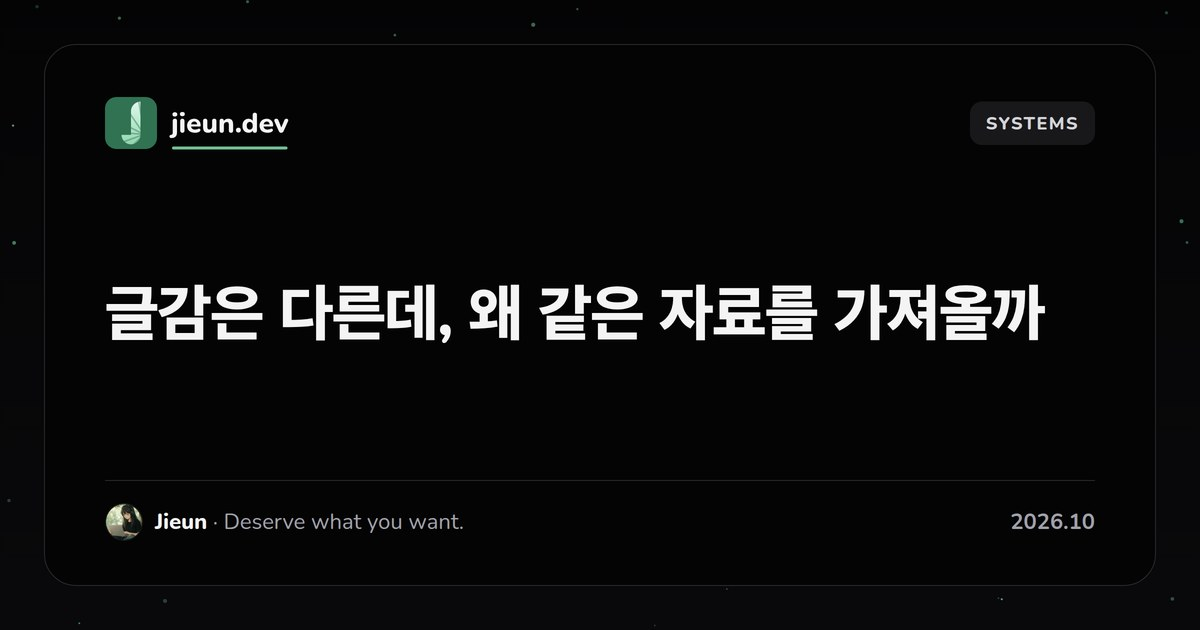
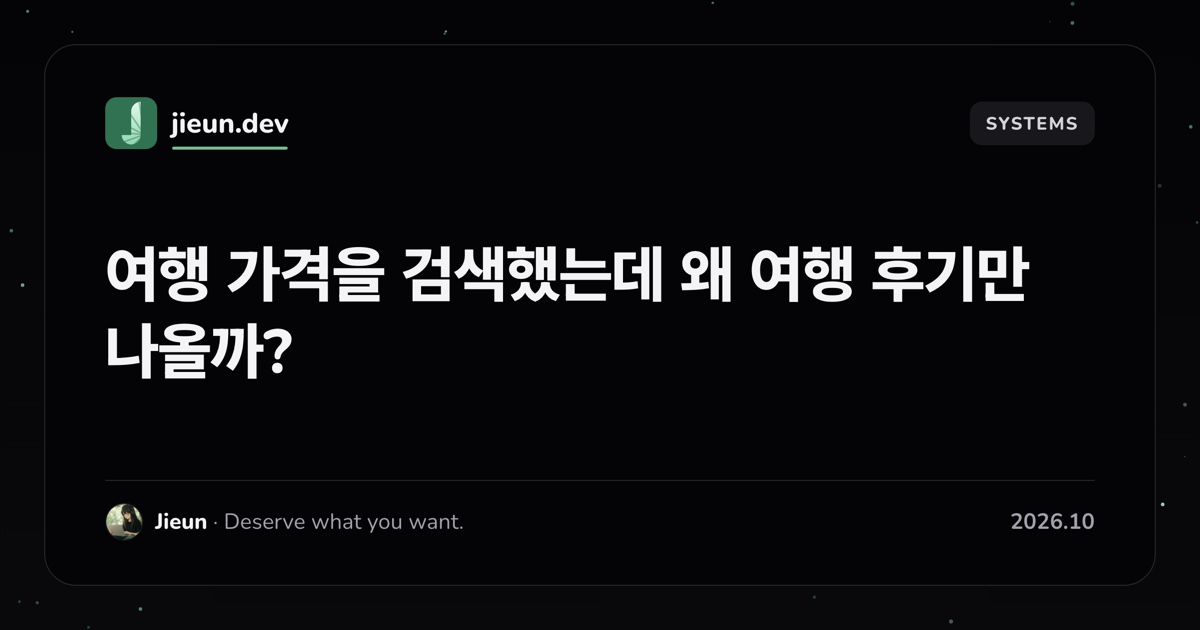
검색 의도 글의 제목·부제목·들어가며·커버를 홋카이도 예시로 바꾼다

diff --git a/src/content/blog/ko/preserving-topic-intent-in-search.md b/src/content/blog/ko/preserving-topic-intent-in-search.md
@@ -1,14 +1,14 @@
 ---
-title: "글감은 다른데, 왜 같은 자료를 가져올까"
+title: "여행 가격을 검색했는데 왜 여행 후기만 나올까?"
 description: "제목 앞에서 추출하던 추가 단어를 핵심 질문에 맞는 검색 구문으로 바꾸고, 플랫폼 문서를 글감별로 중복 없이 배정한 과정을 설명합니다."
-subtitle: "서로 다른 글감이 비슷한 자료를 가져오는 문제를 실제 검색어와 코드에서 확인했습니다. 질문을 표현하는 일은 Grok에, 검색 의도 저장과 플랫폼 출처 배정은 코드에 맡겼습니다."
+subtitle: "AI가 글의 핵심 질문 대신 제목 앞부분의 단어로 자료를 검색하던 문제를 발견했습니다. 검색어 생성과 출처 배정 방식을 개선한 경험을 공유합니다."
 pubDate: 2026-10-18
 tags: ["llm", "prompt-engineering", "content-automation"]
 category: systems
-cover: /covers/wiblog-search-intent-ko-v3.png
+cover: /covers/wiblog-search-intent-ko-v4.png
 coverFit: contain
 coverBackground: dark
-coverAlt: "같은 야외웨딩 제목에서 씨앗키워드에 올을 더하던 기존 검색어와 텐트 비용을 더하는 개선 검색어를 좌우로 비교한 커버"
+coverAlt: "가격·후기·환불 규정을 다루는 세 글이 기존에는 같은 검색어 하나로 모이고, 개선 후에는 각 질문을 반영한 검색어로 나뉘는 모습을 비교한 커버"
 series: wiblog-quality
 seriesOrder: 2
 seriesTitle: "위블로그 제목과 검색 개선기"
@@ -17,15 +17,30 @@ draft: false
 
 ## 들어가며
 
-위블로그는 키워드를 입력하면 글감 후보와 설명·목차·출처를 준비하고, 사용자가 고른 글감으로 본문을 생성하는 서비스입니다. 글의 출발점이 되는 키워드를 ‘씨앗키워드’라고 부르며, 보통 하나의 씨앗에서 세 개의 글감을 제안합니다.
+AI가 블로그 글 세 개를 작성한다고 가정해 보겠습니다.
 
-[지난 글](/ko/blog/making-ai-blog-titles-readable/)에서는 어떤 답을 얻을 글인지 드러나도록 제목 생성을 개선한 과정을 다뤘습니다. 이번에는 그 질문에 답할 자료를 찾는 과정입니다.
+주제는 모두 '홋카이도 온천 여행'이지만, 각 글에서 답해야 할 질문은 다릅니다.
 
-직접 글감을 검수하면서 제목과 실제로 쓰려는 내용이 따로 노는 경향을 발견했습니다. 제목은 구체적인 내용을 약속하는데 목차는 일반적인 설명으로 돌아가거나, 서로 다른 질문을 다루는 글감들이 비슷한 자료를 가져오는 경우가 있었습니다.
+- 온천 여행 패키지의 가격은 얼마일까?
+- 실제 여행객들은 어떤 후기를 남겼을까?
+- 예약을 취소하면 수수료는 얼마나 발생할까?
 
-PoC 엔지니어는 저 혼자였고, 거의 주 단위로 실험한 내용을 운영에 반영했습니다. 다만 무엇을 고쳐야 하는지 파악하는 데는 시간이 많이 걸렸습니다. 제목 생성, 검색어 구성, 출처 선정과 원문 수집의 문제가 함께 나타났기 때문입니다.
+세 질문에 필요한 자료는 서로 다릅니다. 가격을 설명하려면 요금 정보가 필요하고, 취소 수수료를 설명하려면 환불 규정이 필요합니다.
 
-이번 글에서는 제목의 질문이 실제 검색어로 바뀌는 과정과, 검색에서 찾은 플랫폼 문서를 후보별로 배정하는 과정을 살펴보겠습니다. 구현 날짜순보다는 문제를 이해하는 순서로 설명합니다.
+그런데 기존 시스템에서는 세 글 모두 **'홋카이도 온천 여행 패키지'**라는 동일한 검색어를 사용하고 있었습니다.
+
+제목에서 가장 먼저 발견된 단어를 검색어에 추가하는 방식이었기 때문입니다. '가격', '후기', '취소 수수료'라는 핵심 질문은 검색에 반영되지 않았습니다.
+
+이 문제는 제가 개발하던 AI 블로그 콘텐츠 생성 서비스 '위블로그'에서 발견했습니다.
+
+위블로그는 사용자가 키워드를 입력하면 AI가 세 가지 글감 후보를 제안하고, 각 글에 필요한 자료를 검색한 뒤 목차와 본문을 생성하는 서비스입니다.
+
+저는 이 과정에서 두 가지를 개선했습니다.
+
+1. **검색어 생성:** 제목 앞의 단어를 기계적으로 선택하는 대신, AI가 글의 핵심 질문을 파악해 검색어를 생성하도록 변경했습니다.
+2. **출처 배정:** 여러 글이 동일한 검색 결과를 공유하더라도, 같은 플랫폼 문서를 중복해서 배정하지 않도록 변경했습니다.
+
+이번 글에서는 문제를 발견한 과정, 기존 알고리즘의 한계, LLM을 활용한 검색어 생성, 그리고 검색 자료의 중복 배정을 방지한 구현 과정을 살펴보겠습니다.
 
 ## 1. 제목과 본문으로 이어질 목차가 따로 놀았습니다
 

diff --git a/docs/writing/search-intent-cover-v4.md b/docs/writing/search-intent-cover-v4.md
@@ -1,0 +1,8 @@
+# 검색 의도 개선기 커버 v4
+
+- 제공: 작성자가 직접 만든 이미지를 받아 그대로 사용했습니다(생성 프롬프트 없음).
+- 이전 커버: `public/covers/wiblog-search-intent-ko-v3.png`(삭제하지 않고 유지)
+- 최종 이미지: `public/covers/wiblog-search-intent-ko-v4.png`
+- 배경: 제목·들어가며를 '홋카이도 온천 여행' 예시로 바꾸면서 커버도 같은 예시로 맞췄습니다.
+- 구성: 기존 방식(세 글 → 동일 검색어 '홋카이도 온천 여행 패키지')과 개선 방향(가격·후기·취소 수수료를 반영한 세 검색어)을 좌우로 비교합니다. 오른쪽 하단에 '개념 예시'임을 표시했습니다.
+- 영문판(`wiblog-search-intent-en-v1.png`)은 이번 변경에 포함하지 않았습니다.
